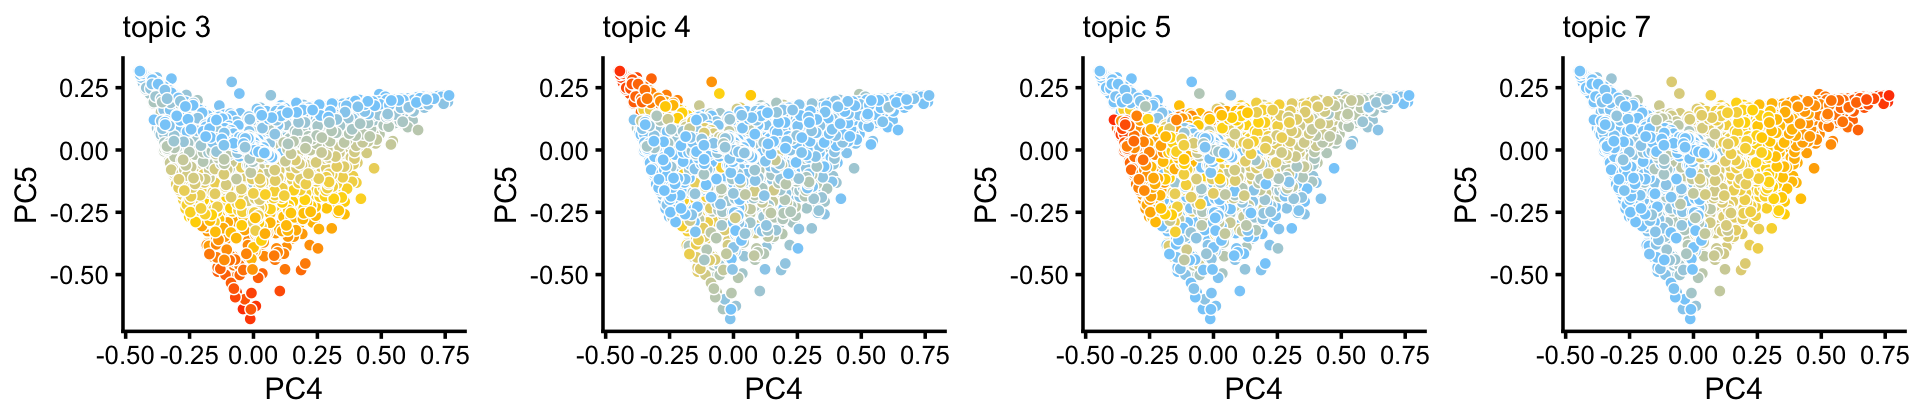
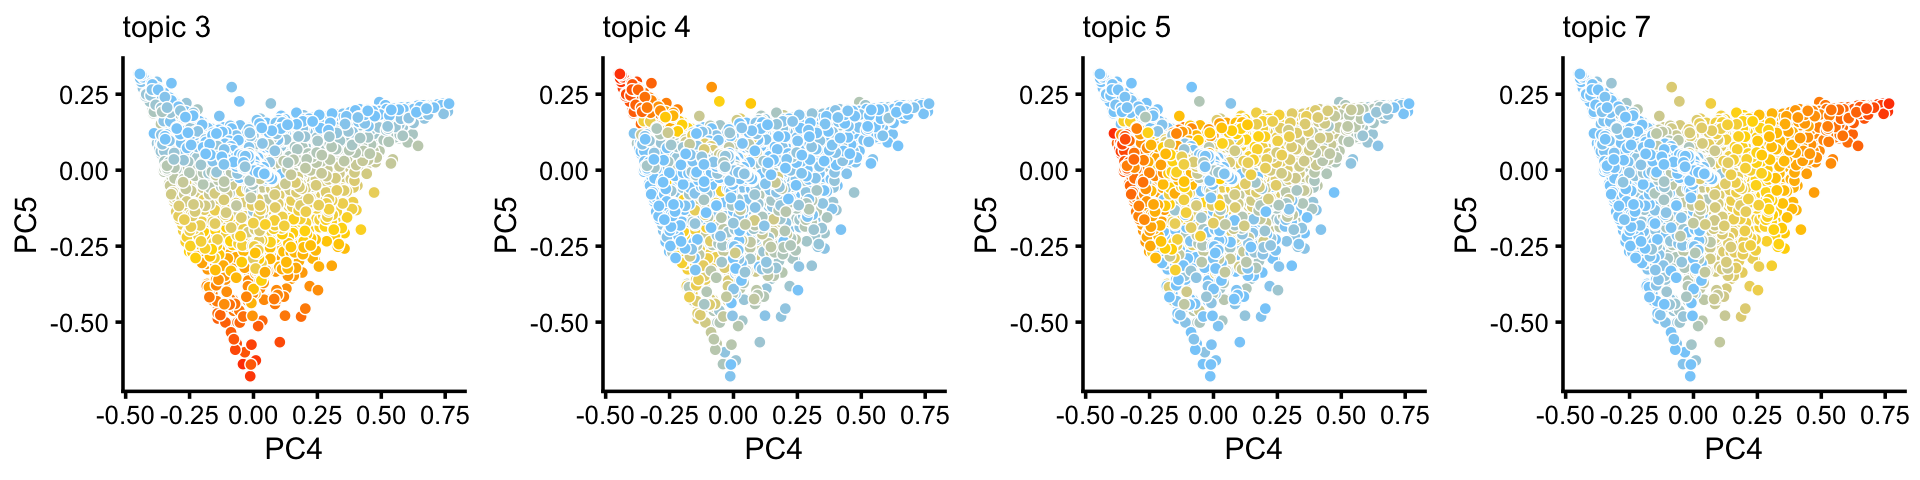
Added explanatory text and improved PC-based manual clustering of droplet data in plots_tracheal_epithelium.Rmd.

diff --git a/docs/plots_tracheal_epithelium.html b/docs/plots_tracheal_epithelium.html
@@ -412,16 +412,16 @@ This reproducible <a href="http://rmarkdown.rstudio.com">R Markdown</a> analysis
 <div class="panel panel-default">
 <div class="panel-heading">
 <p class="panel-title">
-<a data-toggle="collapse" data-parent="#workflowr-checks" href="#strongRepositoryversionstrongahrefhttpsgithubcomstephenslabsinglecelltopicstreed35cb03fade4ee2fc5da4880b31c21d1c2bb9ddatargetblankd35cb03a"> <span class="glyphicon glyphicon-ok text-success" aria-hidden="true"></span> <strong>Repository version:</strong> <a href="https://github.com/stephenslab/single-cell-topics/tree/d35cb03fade4ee2fc5da4880b31c21d1c2bb9dda" target="_blank">d35cb03</a> </a>
+<a data-toggle="collapse" data-parent="#workflowr-checks" href="#strongRepositoryversionstrongahrefhttpsgithubcomstephenslabsinglecelltopicstreec7b77ee2b8b9d0ac075a4cfcf78a1a755ca868d6targetblankc7b77eea"> <span class="glyphicon glyphicon-ok text-success" aria-hidden="true"></span> <strong>Repository version:</strong> <a href="https://github.com/stephenslab/single-cell-topics/tree/c7b77ee2b8b9d0ac075a4cfcf78a1a755ca868d6" target="_blank">c7b77ee</a> </a>
 </p>
 </div>
[2 lines of base64/hex data omitted]
 <div class="panel-body">
 <p>
 Great! You are using Git for version control. Tracking code development and connecting the code version to the results is critical for reproducibility.
 </p>
 <p>
-The results in this page were generated with repository version <a href="https://github.com/stephenslab/single-cell-topics/tree/d35cb03fade4ee2fc5da4880b31c21d1c2bb9dda" target="_blank">d35cb03</a>. See the <em>Past versions</em> tab to see a history of the changes made to the R Markdown and HTML files.
+The results in this page were generated with repository version <a href="https://github.com/stephenslab/single-cell-topics/tree/c7b77ee2b8b9d0ac075a4cfcf78a1a755ca868d6" target="_blank">c7b77ee</a>. See the <em>Past versions</em> tab to see a history of the changes made to the R Markdown and HTML files.
 </p>
 <p>
 Note that you need to be careful to ensure that all relevant files for the analysis have been committed to Git prior to generating the results (you can use <code>wflow_publish</code> or <code>wflow_git_commit</code>). workflowr only checks the R Markdown file, but you know if there are other scripts or data files that it depends on. Below is the status of the Git repository when the results were generated:
@@ -478,6 +478,57 @@ Message
 </tr>
 </thead>
 <tbody>
+<tr>
+<td>
+Rmd
+</td>
+<td>
+<a href="https://github.com/stephenslab/single-cell-topics/blob/c7b77ee2b8b9d0ac075a4cfcf78a1a755ca868d6/analysis/plots_tracheal_epithelium.Rmd" target="_blank">c7b77ee</a>
+</td>
+<td>
+Peter Carbonetto
+</td>
+<td>
+2020-08-19
+</td>
+<td>
+wflow_publish(“plots_tracheal_epithelium.Rmd”)
+</td>
+</tr>
+<tr>
+<td>
+Rmd
+</td>
+<td>
+<a href="https://github.com/stephenslab/single-cell-topics/blob/70a4a60fe8655bd8d5609ed02a7f3718c41ae6fa/analysis/plots_tracheal_epithelium.Rmd" target="_blank">70a4a60</a>
+</td>
+<td>
+Peter Carbonetto
+</td>
+<td>
+2020-08-19
+</td>
+<td>
+Added note to plots_tracheal_epithelium.Rmd.
+</td>
+</tr>
+<tr>
+<td>
+html
+</td>
+<td>
+<a href="https://rawcdn.githack.com/stephenslab/single-cell-topics/fb21b3b781ba22db8b89d1fb531cf91e63e4e1d5/docs/plots_tracheal_epithelium.html" target="_blank">fb21b3b</a>
+</td>
+<td>
+Peter Carbonetto
+</td>
+<td>
+2020-08-19
+</td>
+<td>
+Added very initial Structure plots to plots_tracheal_epithelium analysis.
+</td>
+</tr>
 <tr>
 <td>
 Rmd
@@ -790,7 +841,7 @@ rm(samples,counts)</code></pre>
 <p>Load the <span class="math inline">\(k = 7\)</span> Poisson NMF model fit for the droplet data, and the <span class="math inline">\(k = 11\)</span> Poisson NMF fit for the pulse-seq data.</p>
 <pre class="r"><code>fit_droplet &lt;- readRDS(&quot;../output/droplet/rds/fit-droplet-scd-ex-k=7.rds&quot;)$fit
 fit_pulseseq &lt;- readRDS(&quot;../output/pulseseq/rds/fit-pulseseq-scd-ex-k=11.rds&quot;)$fit</code></pre>
-<p>Rare and abundant cell types in the droplet data:</p>
+<p>The Montoro <em>et al</em> (2018) article mentions that some epithelial cell types are abundant, whereas others are very rare. The topics in the droplet data reflect this:</p>
 <pre class="r"><code>p1 &lt;- create_abundance_plot(fit_droplet)
 print(p1)</code></pre>
 <p><img src="figure/plots_tracheal_epithelium.Rmd/abundance-plot-droplet-1.png" width="420" style="display: block; margin: auto;" /></p>
@@ -831,10 +882,10 @@ Peter Carbonetto
 </table>
 </div>
 </div>
-<p>The first topic is indeed very rare; only 43 samples have a greater than 10% contribution from this topic.</p>
+<p>The first topic—which is not visible in the bar chart—is indeed very rare; only 43 out of 7,193 samples have a greater than 10% contribution from this topic.</p>
 <pre class="r"><code>sum(poisson2multinom(fit_droplet)$L[,1] &gt; 0.1)
 # [1] 43</code></pre>
-<p>Rare and abundant cell types in the pulse-seq data:</p>
+<p>Likewise, we also pick up rare and abundant topics in the pulse-seq data:</p>
 <pre class="r"><code>p2 &lt;- create_abundance_plot(fit_pulseseq)
 print(p2)</code></pre>
 <p><img src="figure/plots_tracheal_epithelium.Rmd/abundancee-plot-pulseseq-1.png" width="480" style="display: block; margin: auto;" /></p>
@@ -875,7 +926,8 @@ Peter Carbonetto
 </table>
 </div>
 </div>
-<p>[Explain why we don’t use <em>t</em>-SNE.] Substructure is evident from principal components of droplet topic proportions:</p>
+<p>In this next part of the analysis, we perform PCA on the estimated topic proportions to explore structure in the data as inferred by the topic model. Typically a nonlinear embedding method such as <em>t</em>-SNE or UMAP is used to visualize the structure, but the disadvantage such methods is that it can often be difficult to get the (many) tuning parameters right, and they are sometimes very slow for large data sets; by contrast, PCA has no tuning parameters.</p>
+<p>These three scatterplots show the droplet samples (the topic proportions) projected onto 5 out of the 7 PCs. (PCs 3 and 7 do not reveal any additional structure, so are not shown here.)</p>
 <pre class="r"><code>p3 &lt;- basic_pca_plot(fit_droplet,c(&quot;PC1&quot;,&quot;PC2&quot;))
 p4 &lt;- basic_pca_plot(fit_droplet,c(&quot;PC4&quot;,&quot;PC5&quot;))
 p5 &lt;- basic_pca_plot(fit_droplet,c(&quot;PC5&quot;,&quot;PC6&quot;))
@@ -929,7 +981,8 @@ Peter Carbonetto
 </table>
 </div>
 </div>
-<p><strong>TO DO:</strong> Add PC plots with topic proportions here.</p>
+<p>Distinct clusters show up in the PC1 vs. PC2 plot, as well as in the PC5 vs. PC6 plot, whereas the structure in PC4 vs. PC5 is very much continuously varying.</p>
+<p>Let’s look more closely at the topics that show variation in the first two PCs:</p>
 <pre class="r"><code>p6 &lt;- pca_plot(poisson2multinom(fit_droplet),pcs = 1:2,k = c(2,5,6),
                plot_grid_call = function (plots)
                  do.call(plot_grid,c(lapply(plots,
@@ -984,7 +1037,8 @@ Peter Carbonetto
 </table>
 </div>
 </div>
-<p>Principal components 4 and 5:</p>
+<p>The bulk of the samples lie on a continuous gradient between topics 2 and 5. There is a smaller cluster at the bottom of this plot, with high contributions from topic 6.</p>
+<p>Next, we look closely at PCs 4 and 5:</p>
 <pre class="r"><code>p7 &lt;- pca_plot(poisson2multinom(fit_droplet),pcs = 4:5,k = c(3,4,5,7),
                plot_grid_call = function (plots)
                  do.call(plot_grid,c(lapply(plots,
@@ -1015,6 +1069,17 @@ Date
 <tbody>
 <tr>
 <td>
+<a href="https://github.com/stephenslab/single-cell-topics/blob/fb21b3b781ba22db8b89d1fb531cf91e63e4e1d5/docs/figure/plots_tracheal_epithelium.Rmd/droplet-pca-with-topics-2-1.png" target="_blank">fb21b3b</a>
+</td>
+<td>
+Peter Carbonetto
+</td>
+<td>
+2020-08-19
+</td>
+</tr>
+<tr>
+<td>
 <a href="https://github.com/stephenslab/single-cell-topics/blob/5a35bbd6b181f322bc808840a2df3c20a6b80d94/docs/figure/plots_tracheal_epithelium.Rmd/droplet-pca-with-topics-2-1.png" target="_blank">5a35bbd</a>
 </td>
 <td>
@@ -1039,7 +1104,8 @@ Peter Carbonetto
 </table>
 </div>
 </div>
-<p>Principal components 5 and 6:</p>
+<p>Along these PCs, we see that topics 3, 4, 5 and 7 exist in many combinations, with no apparent distinct populations.</p>
+<p>Topic 1 captures a very small discrete population of cells:</p>
 <pre class="r"><code>p8 &lt;- pca_plot(poisson2multinom(fit_droplet),pcs = 5:6,k = 1) +
         guides(fill = &quot;none&quot;)
 print(p8)</code></pre>
@@ -1081,7 +1147,7 @@ Peter Carbonetto
 </table>
 </div>
 </div>
-<p>[Note that PCs 3 and 7 does not reveal any additional substructure, so are not included in our plots.]</p>
+<p>In summary, topics 1 and 6 pick up discrete “cell types”, whereas the other topics characterize more continuous variation in gene expression, perhaps cell types along a continuous trajectory of development. There are some other discrete clusters that seem to be composed of distinct combinations of topics that we will neeed to examine more closely.</p>
 <p>Four suggested by PCA analysis, plus a “background” cluster (<span class="math inline">\(c_0\)</span>):</p>
 <pre class="r"><code>droplet_cluster_colors &lt;- c(&quot;gray&quot;,&quot;darkblue&quot;,&quot;gold&quot;,&quot;yellowgreen&quot;,&quot;firebrick&quot;)
 pca_droplet &lt;- prcomp(poisson2multinom(fit_droplet)$L)$x
@@ -1125,6 +1191,17 @@ Date
 </tr>
 </thead>
 <tbody>
+<tr>
+<td>
+<a href="https://github.com/stephenslab/single-cell-topics/blob/fb21b3b781ba22db8b89d1fb531cf91e63e4e1d5/docs/figure/plots_tracheal_epithelium.Rmd/droplet-clustering-1-1.png" target="_blank">fb21b3b</a>
+</td>
+<td>
+Peter Carbonetto
+</td>
+<td>
+2020-08-19
+</td>
+</tr>
 <tr>
 <td>
 <a href="https://github.com/stephenslab/single-cell-topics/blob/368a74a30418728c7ae896e6ec1c567e24ace79f/docs/figure/plots_tracheal_epithelium.Rmd/droplet-clustering-1-1.png" target="_blank">368a74a</a>
@@ -1172,6 +1249,117 @@ p12 &lt;- structure_plot(fit_droplet_rare,rows = order(tsne_droplet_rare$Y),
                       colors = droplet_topic_colors[topic_ordering])
 print(p12)</code></pre>
 <p><img src="figure/plots_tracheal_epithelium.Rmd/droplet-structure-plot-rare-1.png" width="720" style="display: block; margin: auto;" /></p>
+<p>
+<button type="button" class="btn btn-default btn-xs btn-workflowr btn-workflowr-fig" data-toggle="collapse" data-target="#fig-droplet-structure-plot-rare-1">
+Past versions of droplet-structure-plot-rare-1.png
+</button>
+</p>
+<div id="fig-droplet-structure-plot-rare-1" class="collapse">
+<div class="table-responsive">
+<table class="table table-condensed table-hover">
+<thead>
+<tr>
+<th>
+Version
+</th>
+<th>
+Author
+</th>
+<th>
+Date
+</th>
+</tr>
+</thead>
+<tbody>
+<tr>
+<td>
+<a href="https://github.com/stephenslab/single-cell-topics/blob/fb21b3b781ba22db8b89d1fb531cf91e63e4e1d5/docs/figure/plots_tracheal_epithelium.Rmd/droplet-structure-plot-rare-1.png" target="_blank">fb21b3b</a>
+</td>
+<td>
+Peter Carbonetto
+</td>
+<td>
+2020-08-19
+</td>
+</tr>
+</tbody>
+</table>
+</div>
+</div>
+<pre class="r"><code>temp &lt;- select(poisson2multinom(fit_droplet),
+               loadings = which(samples_droplet$tissue == &quot;Ionocyte&quot;))
+structure_plot(temp,rows = order(temp$L[,3]),
+                      topics = topic_ordering,
+                      colors = droplet_topic_colors[topic_ordering])</code></pre>
+<p><img src="figure/plots_tracheal_epithelium.Rmd/droplet-structure-plot-rare-2.png" width="720" style="display: block; margin: auto;" /></p>
+<pre class="r"><code>temp2 &lt;- select(poisson2multinom(fit_droplet),
+                loadings = which(samples_droplet$tissue == &quot;Tuft&quot;))
+structure_plot(temp2,perplexity = 30,
+               topics = topic_ordering,
+               colors = droplet_topic_colors[topic_ordering])</code></pre>
+<p><img src="figure/plots_tracheal_epithelium.Rmd/droplet-structure-plot-rare-3.png" width="720" style="display: block; margin: auto;" /></p>
+<pre class="r"><code>temp3 &lt;- select(poisson2multinom(fit_droplet),
+                loadings = which(samples_droplet$tissue == &quot;Neuroendocrine&quot;))
+structure_plot(temp3,perplexity = 30,
+               topics = topic_ordering,
+               colors = droplet_topic_colors[topic_ordering])</code></pre>
+<p><img src="figure/plots_tracheal_epithelium.Rmd/droplet-structure-plot-rare-4.png" width="720" style="display: block; margin: auto;" /></p>
+<pre><code># Read the 158 x 7 data matrix successfully!
+# OpenMP is working. 1 threads.
+# Using no_dims = 1, perplexity = 30.000000, and theta = 0.100000
+# Computing input similarities...
+# Building tree...
+# Done in 0.01 seconds (sparsity = 0.752924)!
+# Learning embedding...
+# Iteration 50: error is 46.264071 (50 iterations in 0.01 seconds)
+# Iteration 100: error is 45.443002 (50 iterations in 0.01 seconds)
+# Iteration 150: error is 44.347590 (50 iterations in 0.01 seconds)
+# Iteration 200: error is 45.517446 (50 iterations in 0.01 seconds)
+# Iteration 250: error is 46.081133 (50 iterations in 0.01 seconds)
+# Iteration 300: error is 0.338211 (50 iterations in 0.02 seconds)
+# Iteration 350: error is 0.262554 (50 iterations in 0.01 seconds)
+# Iteration 400: error is 0.262338 (50 iterations in 0.01 seconds)
+# Iteration 450: error is 0.262333 (50 iterations in 0.01 seconds)
+# Iteration 500: error is 0.262333 (50 iterations in 0.02 seconds)
+# Iteration 550: error is 0.262333 (50 iterations in 0.01 seconds)
+# Iteration 600: error is 0.262333 (50 iterations in 0.01 seconds)
+# Iteration 650: error is 0.262333 (50 iterations in 0.01 seconds)
+# Iteration 700: error is 0.262333 (50 iterations in 0.01 seconds)
+# Iteration 750: error is 0.262333 (50 iterations in 0.01 seconds)
+# Iteration 800: error is 0.262333 (50 iterations in 0.01 seconds)
+# Iteration 850: error is 0.262333 (50 iterations in 0.01 seconds)
+# Iteration 900: error is 0.262333 (50 iterations in 0.01 seconds)
+# Iteration 950: error is 0.262333 (50 iterations in 0.01 seconds)
+# Iteration 1000: error is 0.262333 (50 iterations in 0.01 seconds)
+# Fitting performed in 0.25 seconds.
+# Read the 96 x 7 data matrix successfully!
+# OpenMP is working. 1 threads.
+# Using no_dims = 1, perplexity = 30.000000, and theta = 0.100000
+# Computing input similarities...
+# Building tree...
+# Done in 0.01 seconds (sparsity = 0.983941)!
+# Learning embedding...
+# Iteration 50: error is 51.369311 (50 iterations in 0.01 seconds)
+# Iteration 100: error is 49.505412 (50 iterations in 0.01 seconds)
+# Iteration 150: error is 49.533513 (50 iterations in 0.01 seconds)
+# Iteration 200: error is 45.739453 (50 iterations in 0.01 seconds)
+# Iteration 250: error is 48.708066 (50 iterations in 0.01 seconds)
+# Iteration 300: error is 1.416143 (50 iterations in 0.01 seconds)
+# Iteration 350: error is 0.382373 (50 iterations in 0.01 seconds)
+# Iteration 400: error is 0.312025 (50 iterations in 0.01 seconds)
+# Iteration 450: error is 0.312065 (50 iterations in 0.01 seconds)
+# Iteration 500: error is 0.312066 (50 iterations in 0.01 seconds)
+# Iteration 550: error is 0.312066 (50 iterations in 0.01 seconds)
+# Iteration 600: error is 0.312065 (50 iterations in 0.01 seconds)
+# Iteration 650: error is 0.312065 (50 iterations in 0.01 seconds)
+# Iteration 700: error is 0.312067 (50 iterations in 0.01 seconds)
+# Iteration 750: error is 0.312067 (50 iterations in 0.01 seconds)
+# Iteration 800: error is 0.312066 (50 iterations in 0.01 seconds)
+# Iteration 850: error is 0.312067 (50 iterations in 0.01 seconds)
+# Iteration 900: error is 0.312065 (50 iterations in 0.01 seconds)
+# Iteration 950: error is 0.312065 (50 iterations in 0.01 seconds)
+# Iteration 1000: error is 0.312067 (50 iterations in 0.01 seconds)
+# Fitting performed in 0.12 seconds.</code></pre>
 <pre class="r"><code>set.seed(1)
 fit_droplet_abundant &lt;-
   select(poisson2multinom(fit_droplet),
@@ -1185,7 +1373,7 @@ p13 &lt;- structure_plot(fit_droplet_abundant,
                       topics = topic_ordering,
                       colors = droplet_topic_colors[topic_ordering])
 print(p13)</code></pre>
-<p><img src="figure/plots_tracheal_epithelium.Rmd/droplet-structure-plot-abundan-1.png" width="960" style="display: block; margin: auto;" /></p>
+<p><img src="figure/plots_tracheal_epithelium.Rmd/droplet-structure-plot-abundant-1.png" width="960" style="display: block; margin: auto;" /></p>
 <p>It is helpful to compare these results with clustering reported in the Montoro <em>et al</em> (2018) paper. To make this comparison, we layer the 7 clusters on top of these PCs:</p>
 <pre class="r"><code>droplet_celltype_colors &lt;-
   c(&quot;royalblue&quot;,      # Basal
@@ -1273,6 +1461,7 @@ Peter Carbonetto
 </table>
 </div>
 </div>
+<p><strong>TO DO:</strong> Add Structure plot9s) to compare Montoro <em>et al</em> (2018) clustering.</p>
 <p>And likewise in the pulse-seq data:</p>
 <pre class="r"><code>p5 &lt;- basic_pca_plot(fit_pulseseq,c(&quot;PC3&quot;,&quot;PC4&quot;))
 p6 &lt;- basic_pca_plot(fit_pulseseq,c(&quot;PC5&quot;,&quot;PC6&quot;))
